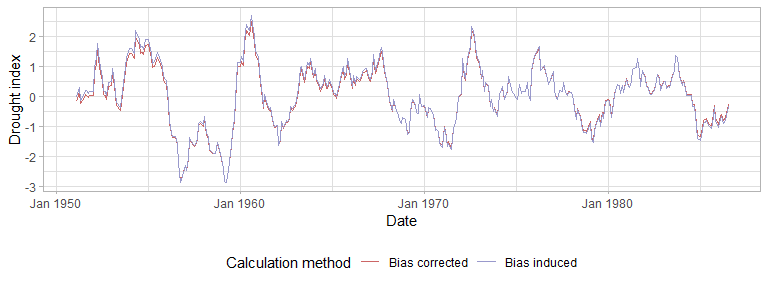
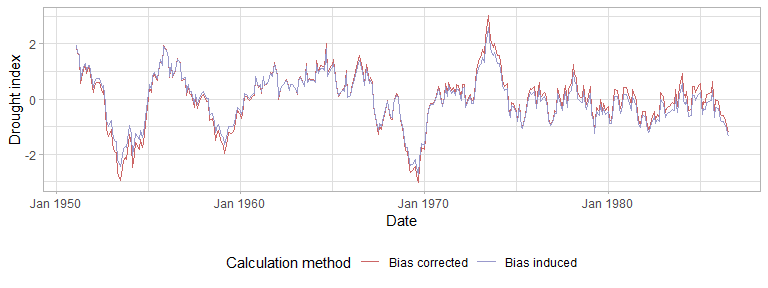
updating README

Changed region(s): [[0.0312, 0.0312, 1.0, 0.6562], [0.0312, 0.4375, 0.0625, 0.4688]]

diff --git a/README.md b/README.md
@@ -34,9 +34,9 @@ rain = dummyrainfall(startYear = 1950, endYear = 2010)
 
 # Compute the non-stationary standardized precipitation index (NSPI) for scale 12 using GAMLSS
 drought = computenspi(x = rain, stationaryspi = FALSE, spiScale = 12, dist = 'gamma')
-#> GAMLSS-RS iteration 1: Global Deviance = 3490.919 
-#> GAMLSS-RS iteration 2: Global Deviance = 3490.867 
-#> GAMLSS-RS iteration 3: Global Deviance = 3490.867
+#> GAMLSS-RS iteration 1: Global Deviance = 3452.117 
+#> GAMLSS-RS iteration 2: Global Deviance = 3452.115 
+#> GAMLSS-RS iteration 3: Global Deviance = 3452.115
 
 # Plot NSPI
 plot(drought)
@@ -54,17 +54,17 @@ Split the rainfall series into training validation and test set:
 rain = oossplit(x = rain, trainratio = 0.6, validationratio = 0.2, testratio = 0.2)
 print(rain)
 #>          Date Rainfall Split
-#>   1: Jan 1950 5.454766 Train
-#>   2: Feb 1950 8.780499 Train
-#>   3: Mar 1950 6.519838 Train
-#>   4: Apr 1950 8.826548 Train
-#>   5: May 1950 9.471417 Train
+#>   1: Jan 1950 5.723370 Train
+#>   2: Feb 1950 8.237526 Train
+#>   3: Mar 1950 6.619211 Train
+#>   4: Apr 1950 6.543626 Train
+#>   5: May 1950 7.698495 Train
 #>  ---                        
-#> 606: Jul 2010 9.621564  Test
-#> 607: Aug 2010 6.549469  Test
-#> 608: Sep 2010 9.047335  Test
-#> 609: Oct 2010 9.103053  Test
-#> 610: Nov 2010 3.681763  Test
+#> 606: Jul 2010 8.064936  Test
+#> 607: Aug 2010 8.250415  Test
+#> 608: Sep 2010 7.773182  Test
+#> 609: Oct 2010 6.995309  Test
+#> 610: Nov 2010 6.991471  Test
 ```
 
 #### Bias measurement
@@ -93,29 +93,31 @@ rain = dummyrainfall(startYear = 1950, endYear = 2010)
 
 # Compute bias
 bias = measurebias(x = rain, trainratio = 0.6, validationratio = 0.2, testratio = 0.2, stationaryspi = TRUE, spiscale = 12, dist = 'normal')
-#> GAMLSS-RS iteration 1: Global Deviance = 2122.164 
-#> GAMLSS-RS iteration 2: Global Deviance = 2122.164 
-#> GAMLSS-RS iteration 1: Global Deviance = 3531.477 
-#> GAMLSS-RS iteration 2: Global Deviance = 3531.477
+#> GAMLSS-RS iteration 1: Global Deviance = 2049.962 
+#> GAMLSS-RS iteration 2: Global Deviance = 2049.962 
+#> GAMLSS-RS iteration 1: Global Deviance = 3598.78 
+#> GAMLSS-RS iteration 2: Global Deviance = 3598.78
 bias
 #> $Transitions
 #>     Bias Corrected Class Bias Induced Class   N
-#>  1:          Near Normal        Near Normal 226
-#>  2:       Moderately Wet     Moderately Wet  30
-#>  3:             Very Wet           Very Wet  11
-#>  4:          Near Normal     Moderately Wet   6
-#>  5:       Moderately Wet           Very Wet   9
-#>  6:        Extremely Wet      Extremely Wet   7
-#>  7:       Moderately Dry     Moderately Dry  29
-#>  8:             Very Dry           Very Dry  19
+#>  1:             Very Wet           Very Wet   7
+#>  2:          Near Normal        Near Normal 241
+#>  3:       Moderately Wet     Moderately Wet  24
+#>  4:          Near Normal     Moderately Wet   2
+#>  5:       Moderately Dry        Near Normal   8
+#>  6:       Moderately Dry     Moderately Dry  14
+#>  7:             Very Dry     Moderately Dry  11
+#>  8:             Very Dry           Very Dry   7
 #>  9:        Extremely Dry      Extremely Dry  11
-#> 10:       Moderately Dry        Near Normal   2
-#> 11:             Very Wet      Extremely Wet   2
-#> 12:       Moderately Dry           Very Dry   1
-#> 13:          Near Normal     Moderately Dry   2
+#> 10:        Extremely Dry           Very Dry   5
+#> 11:             Very Wet     Moderately Wet   8
+#> 12:        Extremely Wet           Very Wet   6
+#> 13:       Moderately Wet        Near Normal   6
+#> 14:        Extremely Wet      Extremely Wet   1
+#> 15:          Near Normal     Moderately Dry   4
 #> 
 #> $`Impacted Records`
-#> [1] "6.2% of records changed drought class"
+#> [1] "14.08% of records changed drought class"
 #> 
 #> $Plot
 ```
